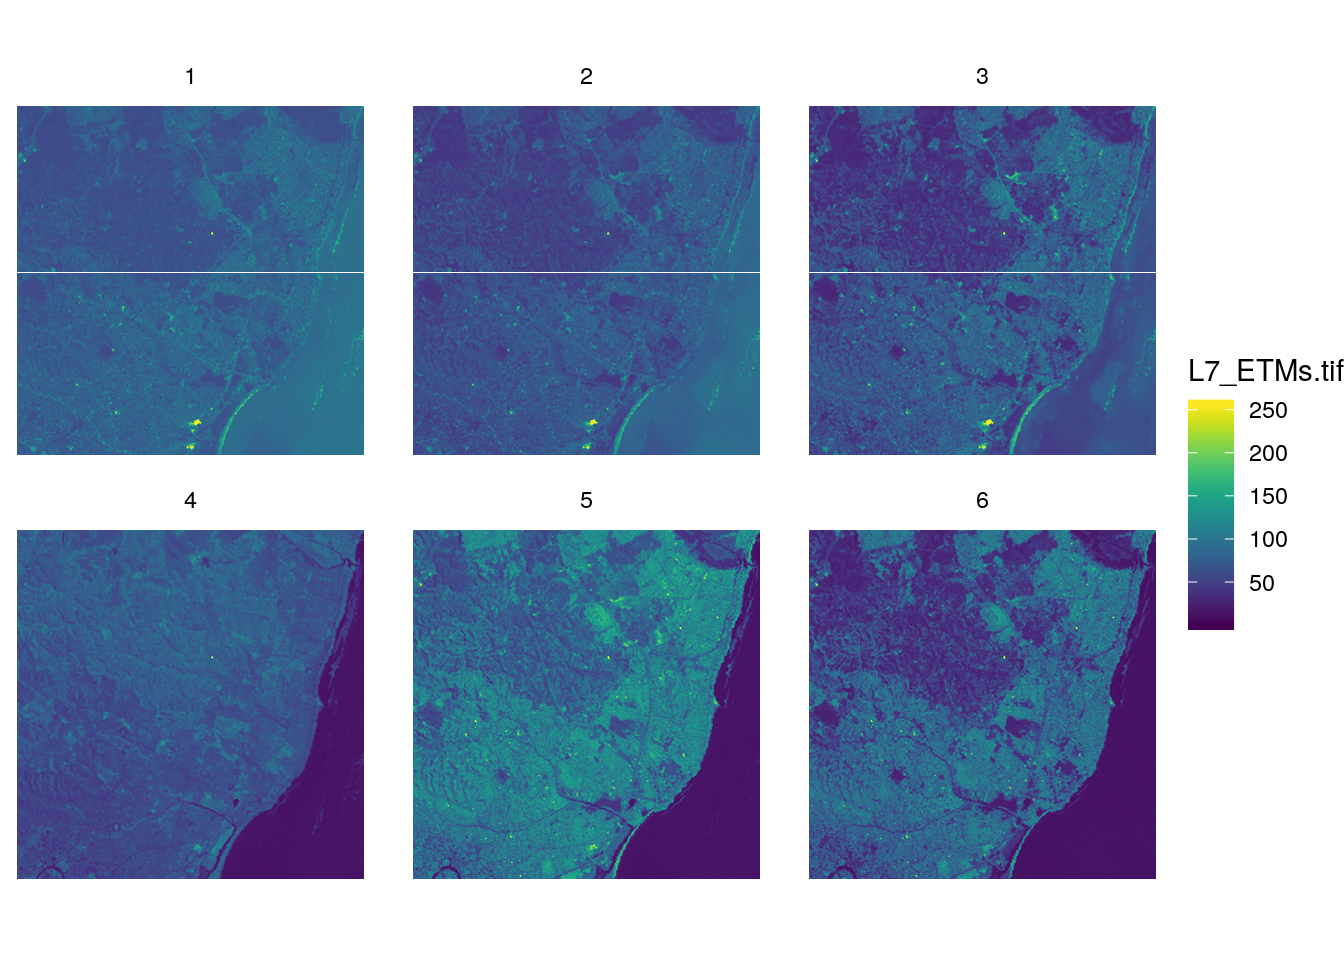
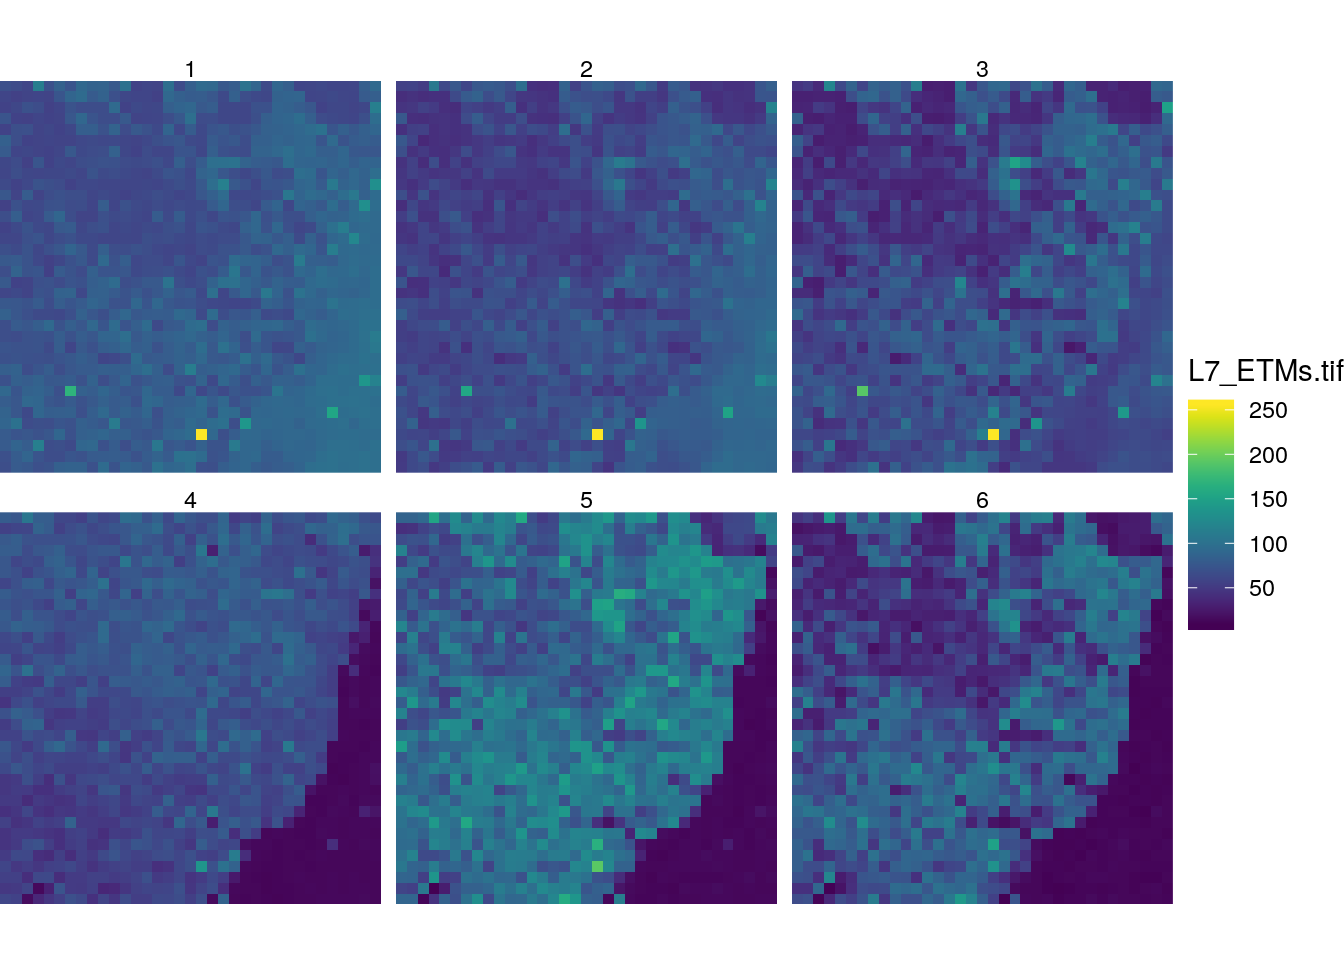
commit

diff --git a/_book/ggplot2.html b/_book/ggplot2.html
@@ -25,7 +25,7 @@
 <meta name="author" content="Edzer Pebesma, Roger Bivand">
 
 
-<meta name="date" content="2019-01-13">
+<meta name="date" content="2019-01-15">
 
   <meta name="viewport" content="width=device-width, initial-scale=1">
   <meta name="apple-mobile-web-app-capable" content="yes">
@@ -270,16 +270,45 @@ code > span.in { color: #60a0b0; font-weight: bold; font-style: italic; } /* Inf
 </div>
 <div id="using-stars-objects-with-ggplot2" class="section level2">
 <h2><span class="header-section-number">10.2</span> using <code>stars</code> objects with <code>ggplot2</code></h2>
+<p>Package <code>stars</code> comes with a <code>geom_stars</code> function that is much more limited in scope than <code>geom_sf</code>. In essence, it creates a call to <code>geom_raster</code> in case of raster data with a regular grid, to <code>geom_tile</code> for other raster data, or to <code>geom_sf</code> if the <code>stars</code> object has simple feature geometries. It also creates the mapping of dimension names to x and y-coordinates and set the first array name as the <code>fill</code> variable. This means that the aspect ratio still needs to be controlled (<code>coord_equal()</code>) and that a <code>facet_wrap</code> is needed to display multiple rasters. An example is shown in figure <a href="ggplot2.html#fig:geomraster">10.1</a>.</p>
 <div class="sourceCode"><pre class="sourceCode r"><code class="sourceCode r"><span class="kw">library</span>(stars)
+<span class="kw">library</span>(ggplot2)
 <span class="kw">library</span>(viridis)
-<span class="co">#&gt; Loading required package: viridisLite</span>
 <span class="kw">system.file</span>(<span class="st">&quot;tif/L7_ETMs.tif&quot;</span>, <span class="dt">package =</span> <span class="st">&quot;stars&quot;</span>) <span class="op">%&gt;%</span><span class="st"> </span><span class="kw">read_stars</span>() -&gt;<span class="st"> </span>x
-<span class="kw">ggplot</span>() <span class="op">+</span><span class="st"> </span><span class="kw">geom_tile</span>(<span class="dt">data =</span> <span class="kw">as.data.frame</span>(x), <span class="kw">aes</span>(<span class="dt">x =</span> x,<span class="dt">y =</span> y, <span class="dt">fill =</span> L7_ETMs.tif)) <span class="op">+</span><span class="st"> </span>
+<span class="kw">ggplot</span>() <span class="op">+</span><span class="st"> </span><span class="kw">geom_stars</span>(<span class="dt">data =</span> x) <span class="op">+</span><span class="st"> </span>
 <span class="st">    </span><span class="kw">coord_equal</span>() <span class="op">+</span><span class="st"> </span>
-<span class="st">    </span><span class="kw">scale_fill_viridis</span>() <span class="op">+</span><span class="st"> </span>
 <span class="st">    </span><span class="kw">facet_wrap</span>(<span class="op">~</span>band) <span class="op">+</span><span class="st"> </span>
-<span class="st">    </span><span class="kw">theme_void</span>()</code></pre></div>
+<span class="st">    </span><span class="kw">scale_fill_viridis</span>() <span class="op">+</span><span class="st"> </span>
+<span class="st">    </span><span class="kw">theme_void</span>() <span class="op">+</span>
+<span class="st">    </span><span class="kw">scale_x_discrete</span>(<span class="dt">expand=</span><span class="kw">c</span>(<span class="dv">0</span>,<span class="dv">0</span>))<span class="op">+</span>
+<span class="st">    </span><span class="kw">scale_y_discrete</span>(<span class="dt">expand=</span><span class="kw">c</span>(<span class="dv">0</span>,<span class="dv">0</span>))</code></pre></div>
+<div class="figure" style="text-align: center"><span id="fig:geomraster"></span>
+<img src="sds_files/figure-html/geomraster-1.png" alt="example of geom_stars" width="672" />
+<p class="caption">
+Figure 10.1: example of geom_stars
+</p>
+</div>
+<p><code>geom_stars</code> has a parameter, <code>downsample</code>, which can be used to downsample particular dimensions. Here we downsample a 90m x 90m raster to a 900m x 900m raster:</p>
+<div class="sourceCode"><pre class="sourceCode r"><code class="sourceCode r"><span class="kw">ggplot</span>() <span class="op">+</span><span class="st"> </span><span class="kw">geom_stars</span>(<span class="dt">data =</span> x, <span class="dt">downsample =</span> <span class="kw">c</span>(<span class="dv">10</span>,<span class="dv">10</span>,<span class="dv">1</span>)) <span class="op">+</span><span class="st"> </span>
+<span class="st">    </span><span class="kw">coord_equal</span>() <span class="op">+</span><span class="st"> </span>
+<span class="st">    </span><span class="kw">facet_wrap</span>(<span class="op">~</span>band) <span class="op">+</span><span class="st"> </span>
+<span class="st">    </span><span class="kw">scale_fill_viridis</span>() <span class="op">+</span><span class="st"> </span>
+<span class="st">    </span><span class="kw">theme_void</span>() <span class="op">+</span>
+<span class="st">    </span><span class="kw">scale_x_discrete</span>(<span class="dt">expand=</span><span class="kw">c</span>(<span class="dv">0</span>,<span class="dv">0</span>))<span class="op">+</span>
+<span class="st">    </span><span class="kw">scale_y_discrete</span>(<span class="dt">expand=</span><span class="kw">c</span>(<span class="dv">0</span>,<span class="dv">0</span>))</code></pre></div>
 <p><img src="sds_files/figure-html/unnamed-chunk-197-1.png" width="672" style="display: block; margin: auto;" /></p>
+<!--
+
+```r
+library(spacetime)
+data(air) # this loads several datasets in .GlobalEnv
+d = st_dimensions(station = st_as_sfc(stations), time = dates)
+aq = st_as_stars(list(PM10 = air), dimensions = d)
+ggplot() + geom_stars(data = aq[,,1:9])
+```
+
+<img src="sds_files/figure-html/unnamed-chunk-198-1.png" width="672" style="display: block; margin: auto;" />
+-->
 
 </div>
 </div>

diff --git a/_book/spatial-interpolation-and-geostatistics.html b/_book/spatial-interpolation-and-geostatistics.html
@@ -25,7 +25,7 @@
 <meta name="author" content="Edzer Pebesma, Roger Bivand">
 
 
-<meta name="date" content="2019-01-13">
+<meta name="date" content="2019-01-15">
 
   <meta name="viewport" content="width=device-width, initial-scale=1">
   <meta name="apple-mobile-web-app-capable" content="yes">
@@ -274,7 +274,7 @@ v =<span class="st"> </span><span class="kw">variogram</span>(<span class="kw">l
 <span class="co">#&gt; 9       5.85 -2.22e-16 POINT (181060 333231)</span>
 <span class="co">#&gt; 10      5.21 -1.11e-16 POINT (181232 333168)</span>
 <span class="kw">plot</span>(k_sf[<span class="dv">1</span>], <span class="dt">pch =</span> <span class="dv">16</span>)</code></pre></div>
-<p><img src="sds_files/figure-html/unnamed-chunk-206-1.png" width="672" style="display: block; margin: auto;" /></p>
+<p><img src="sds_files/figure-html/unnamed-chunk-207-1.png" width="672" style="display: block; margin: auto;" /></p>
 </div>
 <div id="kriging-to-stars-grid" class="section level2">
 <h2><span class="header-section-number">16.4</span> kriging to stars grid:</h2>
@@ -283,7 +283,7 @@ meuse_stars =<span class="st"> </span><span class="kw">st_as_stars</span>(meuse.
 k_st =<span class="st"> </span><span class="kw">krige</span>(<span class="kw">log</span>(zinc)<span class="op">~</span><span class="dv">1</span>, meuse_sf, meuse_stars, v.fit)
 <span class="co">#&gt; [using ordinary kriging]</span>
 <span class="kw">plot</span>(k_st, <span class="dt">breaks =</span> <span class="st">&quot;equal&quot;</span>, <span class="dt">col =</span> <span class="kw">sf.colors</span>())</code></pre></div>
-<p><img src="sds_files/figure-html/unnamed-chunk-207-1.png" width="672" style="display: block; margin: auto;" /></p>
+<p><img src="sds_files/figure-html/unnamed-chunk-208-1.png" width="672" style="display: block; margin: auto;" /></p>
 </div>
 <div id="spatio-temporal" class="section level2">
 <h2><span class="header-section-number">16.5</span> Spatio-temporal</h2>

diff --git a/_book/index.html b/_book/index.html
@@ -25,7 +25,7 @@
 <meta name="author" content="Edzer Pebesma, Roger Bivand">
 
 
-<meta name="date" content="2019-01-13">
+<meta name="date" content="2019-01-15">
 
   <meta name="viewport" content="width=device-width, initial-scale=1">
   <meta name="apple-mobile-web-app-capable" content="yes">
@@ -235,7 +235,7 @@ code > span.in { color: #60a0b0; font-weight: bold; font-style: italic; } /* Inf
 <div id="header">
 <h1 class="title">Spatial Data Science</h1>
 <h4 class="author"><em>Edzer Pebesma, Roger Bivand</em></h4>
-<h4 class="date"><em>2019-01-13</em></h4>
+<h4 class="date"><em>2019-01-15</em></h4>
 </div>
 <div id="preface" class="section level1 unnumbered">
 <h1>Preface</h1>

diff --git a/_book/area-data-and-spatial-correlation.html b/_book/area-data-and-spatial-correlation.html
@@ -25,7 +25,7 @@
 <meta name="author" content="Edzer Pebesma, Roger Bivand">
 
 
-<meta name="date" content="2019-01-13">
+<meta name="date" content="2019-01-15">
 
   <meta name="viewport" content="width=device-width, initial-scale=1">
   <meta name="apple-mobile-web-app-capable" content="yes">

diff --git a/_book/cs.html b/_book/cs.html
@@ -25,7 +25,7 @@
 <meta name="author" content="Edzer Pebesma, Roger Bivand">
 
 
-<meta name="date" content="2019-01-13">
+<meta name="date" content="2019-01-15">
 
   <meta name="viewport" content="width=device-width, initial-scale=1">
   <meta name="apple-mobile-web-app-capable" content="yes">

diff --git a/_book/featureattributes.html b/_book/featureattributes.html
@@ -25,7 +25,7 @@
 <meta name="author" content="Edzer Pebesma, Roger Bivand">
 
 
-<meta name="date" content="2019-01-13">
+<meta name="date" content="2019-01-15">
 
   <meta name="viewport" content="width=device-width, initial-scale=1">
   <meta name="apple-mobile-web-app-capable" content="yes">

diff --git a/_book/geometries.html b/_book/geometries.html
@@ -25,7 +25,7 @@
 <meta name="author" content="Edzer Pebesma, Roger Bivand">
 
 
-<meta name="date" content="2019-01-13">
+<meta name="date" content="2019-01-15">
 
   <meta name="viewport" content="width=device-width, initial-scale=1">
   <meta name="apple-mobile-web-app-capable" content="yes">

diff --git a/_book/geommanip.html b/_book/geommanip.html
@@ -25,7 +25,7 @@
 <meta name="author" content="Edzer Pebesma, Roger Bivand">
 
 
-<meta name="date" content="2019-01-13">
+<meta name="date" content="2019-01-15">
 
   <meta name="viewport" content="width=device-width, initial-scale=1">
   <meta name="apple-mobile-web-app-capable" content="yes">

diff --git a/_book/interactive-maps.html b/_book/interactive-maps.html
@@ -25,7 +25,7 @@
 <meta name="author" content="Edzer Pebesma, Roger Bivand">
 
 
-<meta name="date" content="2019-01-13">
+<meta name="date" content="2019-01-15">
 
   <meta name="viewport" content="width=device-width, initial-scale=1">
   <meta name="apple-mobile-web-app-capable" content="yes">

diff --git a/_book/intro.html b/_book/intro.html
@@ -25,7 +25,7 @@
 <meta name="author" content="Edzer Pebesma, Roger Bivand">
 
 
-<meta name="date" content="2019-01-13">
+<meta name="date" content="2019-01-15">
 
   <meta name="viewport" content="width=device-width, initial-scale=1">
   <meta name="apple-mobile-web-app-capable" content="yes">

diff --git a/_book/manipulating-attributes-summarise-aggregate-union-sample.html b/_book/manipulating-attributes-summarise-aggregate-union-sample.html
@@ -25,7 +25,7 @@
 <meta name="author" content="Edzer Pebesma, Roger Bivand">
 
 
-<meta name="date" content="2019-01-13">
+<meta name="date" content="2019-01-15">
 
   <meta name="viewport" content="width=device-width, initial-scale=1">
   <meta name="apple-mobile-web-app-capable" content="yes">

diff --git a/_book/movement-data.html b/_book/movement-data.html
@@ -25,7 +25,7 @@
 <meta name="author" content="Edzer Pebesma, Roger Bivand">
 
 
-<meta name="date" content="2019-01-13">
+<meta name="date" content="2019-01-15">
 
   <meta name="viewport" content="width=device-width, initial-scale=1">
   <meta name="apple-mobile-web-app-capable" content="yes">
